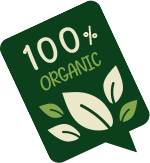
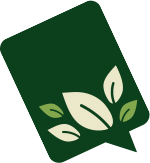
chore(web): update header image and replace notice-2 asset
Changed the header image source to a new asset for improved visual appeal. Updated the notice-2.png file to enhance the overall image quality and consistency across the site.

diff --git a/apps/web/src/components/site/Header.tsx b/apps/web/src/components/site/Header.tsx
@@ -242,7 +242,7 @@ function HomeHeader({ pathname }: { pathname: string }) {
                 <div className="image">
                     <img
                         className="lazyload"
-                        src="/images/item/yellow-field.jpg"
+                        src="/images/funfarm/funfarm_n27.png"
                         alt=""
                     />
                 </div>
